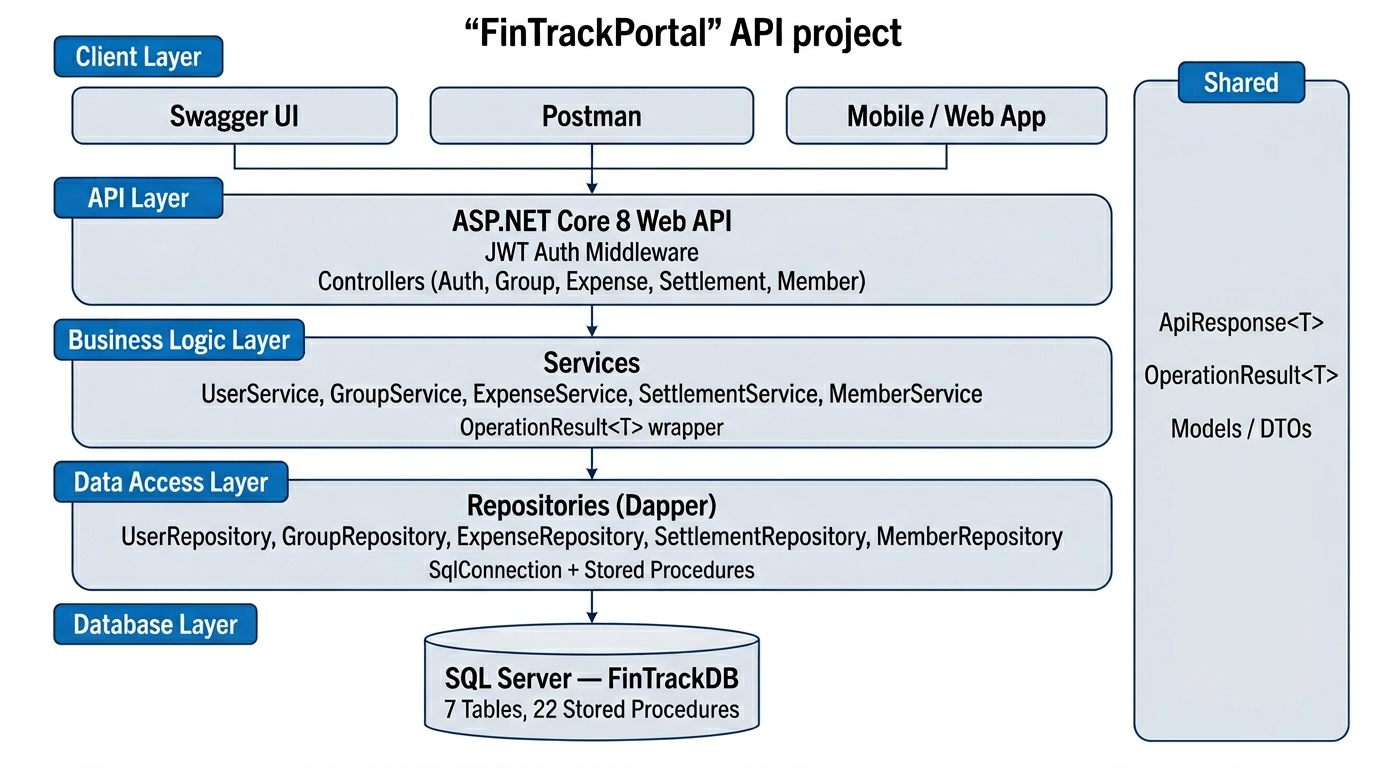
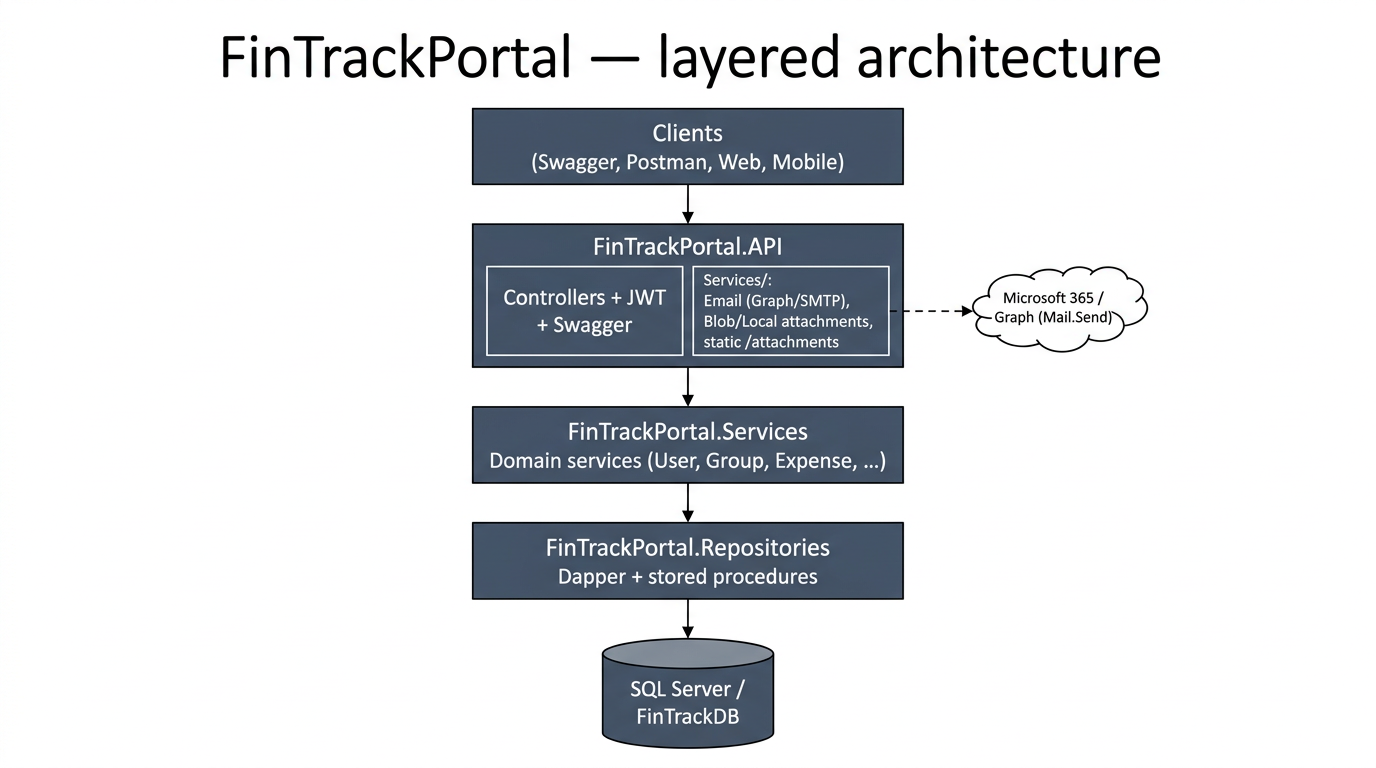
UPDATE DOCUMENTATION

diff --git a/Docs/DeveloperGuide.md b/Docs/DeveloperGuide.md
@@ -6,6 +6,12 @@
 
 ## 1. Architecture Overview
 
+**Visual wireframe** (kept in repo as `architecture-wireframe.png`):
+
+![FinTrackPortal layered architecture](architecture-wireframe.png)
+
+### Layer diagram (text)
+
 ```
 Client (Swagger / Postman / Mobile / Web)
         │
@@ -35,7 +41,7 @@ Client (Swagger / Postman / Mobile / Web)
 └─────────────────────────────────────────────────────────────┘
 ```
 
-**API-only services (no separate project):** `IAttachmentStorageService` with `BlobStorageService` (Azure) or `LocalFileStorageService` (disk), registered from `AttachmentStorage:Provider` in `Program.cs`.
+**API-only infrastructure (no separate project):** `FinTrackPortal.API/Services/` — `IAttachmentStorageService` (`BlobStorageService` / `LocalFileStorageService`), **`IEmailSender`** (`MicrosoftGraphEmailSender`, `SmtpEmailSender`, `EmailSenderSelector`), registered in `Program.cs` from `appsettings`.
 
 ### Request flow
 
@@ -56,14 +62,14 @@ HTTP Request
 
 | Path | Purpose |
 |------|---------|
-| `FinTrackPortal.API/` | Controllers, `Program.cs`, `Services/` (`BlobStorageService`, `LocalFileStorageService`, `IAttachmentStorageService`) |
+| `FinTrackPortal.API/` | Controllers, `Program.cs`, `Services/` (attachments, **email Graph/SMTP**, `IEmailSender` implementations) |
 | `FinTrackPortal.Services/` | Service interfaces + implementations |
 | `FinTrackPortal.Repositories/` | Dapper repositories |
 | `FinTrackPortal.Interfaces/` | Repository interfaces |
 | `FinTrackPortal.Models/` | Request/response DTOs |
 | `FinTrackPortal.Common/` | `ApiResponse<T>`, `OperationResult<T>` |
 | `Database/FinTrackDB_Schema.sql` | Full database script |
-| `Docs/` | This guide + wireframe |
+| `Docs/` | This guide, [`architecture-wireframe.png`](architecture-wireframe.png), [AppSettings](AppSettings.md), [Email setup](Email-Microsoft365-Setup.md) |
 | `FinTrackPortal.postman_collection.json` | Postman (repo root) |
 | `appsettings.Production.example.json` | Production config template (API project) |
 | `appsettings.Development.example.json` | Local template — copy to `appsettings.Development.json` when that file is missing |
@@ -251,6 +257,7 @@ Do not commit `bin/**` XML files; they are build artifacts.
 | [README.md](../README.md) | Overview, endpoints, configuration summary, Postman |
 | [AppSettings.md](AppSettings.md) | All `appsettings` sections and environment layering |
 | [Email-Microsoft365-Setup.md](Email-Microsoft365-Setup.md) | Microsoft 365 / Graph email + Entra steps |
+| [architecture-wireframe.png](architecture-wireframe.png) | Layered architecture diagram (API, services, repos, SQL, Graph) |
 | `Database/FinTrackDB_Schema.sql` | Authoritative schema |
 | `appsettings.Production.example.json` | Production template |
 | `appsettings.Development.example.json` | Development template |

diff --git a/Docs/Email-Microsoft365-Setup.md b/Docs/Email-Microsoft365-Setup.md
@@ -46,6 +46,22 @@ Without **admin consent**, token acquisition may succeed but **send mail will fa
 
 > **Note:** `Mail.Send` as an **application** permission allows the app to send as **any** user in the tenant that you specify in code. Your app is configured to send only as **`Email:Graph:SenderMailbox`**.
 
+### Visual reference — API permissions in the portal
+
+After Step D, **App registrations** → your app → **API permissions** should look like this in principle:
+
+| What to verify | Expected |
+|----------------|----------|
+| **Configured permissions** | Includes **Microsoft Graph** |
+| **Permission** | **Mail.Send** (or “Send mail as any user”) |
+| **Type** | **Application** (not Delegated) |
+| **Admin consent required** | Yes |
+| **Status** | **Granted for [your organization]** (green) — not “Not granted” |
+
+**Reference screenshot:** `AzureEmailconfiguration.png` in the same folder as this guide (`Docs/`).
+
+![Microsoft Entra — App registration, API permissions: Microsoft Graph application permission Mail.Send with admin consent granted](AzureEmailconfiguration.png)
+
 ### Step E — Choose the sending mailbox
 
 - Use the **User principal name (UPN)** of the mailbox, e.g. `noreply@yourdomain.com` or `yourname@tenant.onmicrosoft.com`.

diff --git a/README.md b/README.md
@@ -16,15 +16,19 @@ A RESTful Web API for tracking shared and personal expenses within groups. Built
 
 ## Architecture
 
-The solution follows a **layered architecture** with clear separation of concerns:
+The solution follows a **layered architecture** with clear separation of concerns.
+
+![FinTrackPortal layered architecture (wireframe)](Docs/architecture-wireframe.png)
+
+**Solution layout:**
 
 ```
 FinTrackPortal.sln
 │
-├── FinTrackPortal.API            # Controllers, middleware, Program.cs, attachment storage services
+├── FinTrackPortal.API            # Controllers, middleware, Program.cs, infrastructure services (email, attachments)
 ├── FinTrackPortal.Services       # Business logic (service interfaces + implementations)
 ├── FinTrackPortal.Repositories   # Data access via Dapper + stored procedures
-├── FinTrackPortal.Interfaces     # Repository contracts
+├── FinTrackPortal.Interfaces     # Repository contracts (+ IEmailSender, etc.)
 ├── FinTrackPortal.Models         # DTOs, request/response models, entities
 └── FinTrackPortal.Common         # Shared wrappers (ApiResponse<T>, OperationResult<T>)
 ```

diff --git a/Docs/images/README.md b/Docs/images/README.md
@@ -1,0 +1,15 @@
+# Documentation images
+
+Optional extra assets for guides under `Docs/`.
+
+**Architecture:** the main layered diagram is **[`architecture-wireframe.png`](../architecture-wireframe.png)** — referenced from [README.md](../../README.md) and [DeveloperGuide.md](../DeveloperGuide.md).
+
+## Email / Microsoft Graph
+
+The **Azure / Entra API permissions** reference image for outbound mail is stored next to the email setup guide (not in this folder):
+
+| File | Used by |
+|------|---------|
+| **[`AzureEmailconfiguration.png`](../AzureEmailconfiguration.png)** | [Email-Microsoft365-Setup.md](../Email-Microsoft365-Setup.md) — **Mail.Send** (application) with admin consent. |
+
+Do not commit client secrets or connection strings visible in screenshots; blur or crop if needed.

diff --git a/Docs/AppSettings.md b/Docs/AppSettings.md
@@ -135,4 +135,4 @@ Host filtering for the Kestrel pipeline. `*` allows any host header; restrict in
 ## Related documentation
 
 - [Email — Microsoft 365 (Graph) setup](Email-Microsoft365-Setup.md) — Entra app registration, permissions, and app configuration steps.
-- [Developer Guide](DeveloperGuide.md) — architecture and configuration overview.
+- [Developer Guide](DeveloperGuide.md) — architecture and configuration overview; diagram: [architecture-wireframe.png](architecture-wireframe.png).
